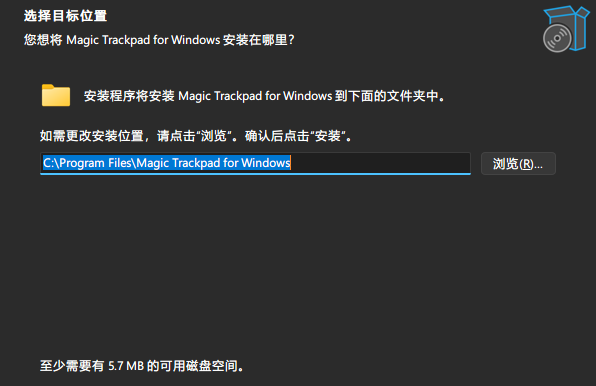
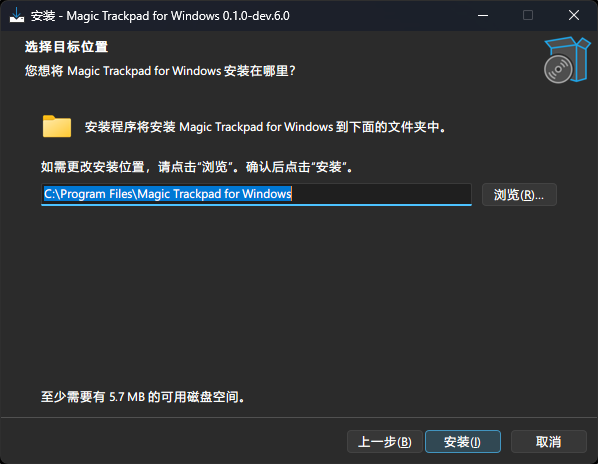
docs: 刷新 dev.6.0 双语安装器截图

diff --git a/docs/history/patch-notes/OSS_1_7B_2_BILINGUAL_SCREENSHOT_CONTRACT.md b/docs/history/patch-notes/OSS_1_7B_2_BILINGUAL_SCREENSHOT_CONTRACT.md
@@ -1,0 +1,45 @@
+# OSS-1.7B.2 bilingual screenshot contract
+
+The first public-binary prerelease line now has a language-matched README
+screenshot set captured from the dev.6.0 Candidate 1 UI.
+
+## Assets
+
+English:
+
+- `installer-information-en.png`
+- `installer-destination-en.png`
+- `uninstall-connected-guard-en.png`
+
+Simplified Chinese:
+
+- `installer-information-zh-cn.png`
+- `installer-destination-zh-cn.png`
+- `uninstall-connected-guard-zh-cn.png`
+
+The English README references only English screenshots. The Simplified Chinese
+README references only Simplified Chinese screenshots.
+
+`Verify-PublicReadme.ps1` now requires all six assets, verifies they are non-empty,
+and rejects cross-language README screenshot references.
+
+## Candidate 1 evidence already observed
+
+The dev.6.0 Candidate 1 installer was built successfully with wrapper Setup
+SHA256:
+
+```text
[1 lines of base64/hex data omitted]
+```
+
+Basic smoke validation observed:
+
+- clean-VM install from `not-installed` to `current`;
+- application-only uninstall kept the driver;
+- reinstall with the current exact driver used the NO-OP Driver Store path;
+- the exact target Driver Store package count remained one;
+- real-host connected-device removal request failed closed and kept the driver;
+- both English and Simplified Chinese connected-device guard dialogs were
+  captured without allowing real driver removal to proceed.
+
+These observations do not replace the remaining complete release regression.

diff --git a/README.md b/README.md
@@ -26,13 +26,15 @@ and predictable uninstall/reinstall behavior for ordinary Windows users.
 
 ## Screenshots
 
+The screenshots below were refreshed from the dev.6.0 prerelease candidate UI.
+
 | Installation information | Destination folder |
 | --- | --- |
-| ![Simplified Chinese installation information page](docs/assets/screenshots/installer-information-zh-cn.png) | ![Simplified Chinese destination folder page](docs/assets/screenshots/installer-destination-zh-cn.png) |
+| ![English installation information page](docs/assets/screenshots/installer-information-en.png) | ![English destination folder page](docs/assets/screenshots/installer-destination-en.png) |
 
 Connected-device fail-closed guard:
 
-![Connected Magic Trackpad driver-removal guard](docs/assets/screenshots/uninstall-connected-guard-zh-cn.png)
+![English connected Magic Trackpad driver-removal guard](docs/assets/screenshots/uninstall-connected-guard-en.png)
 
 The installer automatically uses Simplified Chinese on a Simplified Chinese
 Windows UI. Unsupported Windows UI languages fall back to English.

diff --git a/docs/OSS_PRODUCTIZATION_ROADMAP.md b/docs/OSS_PRODUCTIZATION_ROADMAP.md
@@ -82,14 +82,14 @@ Current release line:
 - selected source/prerelease version: `v0.1.0-dev.6.0`;
 - last fully validated binary baseline: `v0.1.0-dev.5.4.2`;
 - wrapper Setup remains unsigned for the initial prerelease candidate;
-- English/Simplified Chinese screenshot refresh is deferred until the dev.6.0
-  candidate installer exists, so screenshots match the actual release candidate.
+- dev.6.0 Candidate 1 has been built and used to refresh the English/Simplified
+  Chinese installation and connected-device fail-closed screenshot set.
 
 Before the first public binary release:
 
 - build the new dev.6.0 installer without reusing `v0.1.0-dev.5.4.2`;
 - run the complete regression matrix;
-- refresh both English and Simplified Chinese screenshots from the candidate;
+- re-capture screenshots only if a later candidate changes user-visible UI;
 - generate and verify the controlled release directory;
 - publish as a prerelease only after asset/source/SHA verification;
 - document beta support/reporting expectations.

diff --git a/README.zh-CN.md b/README.zh-CN.md
@@ -23,6 +23,8 @@
 
 ## 界面截图
 
+以下截图已使用 dev.6.0 预发布候选界面重新采集。
+
 | 安装说明 | 安装位置 |
 | --- | --- |
 | ![简体中文安装说明页](docs/assets/screenshots/installer-information-zh-cn.png) | ![简体中文安装位置页](docs/assets/screenshots/installer-destination-zh-cn.png) |
